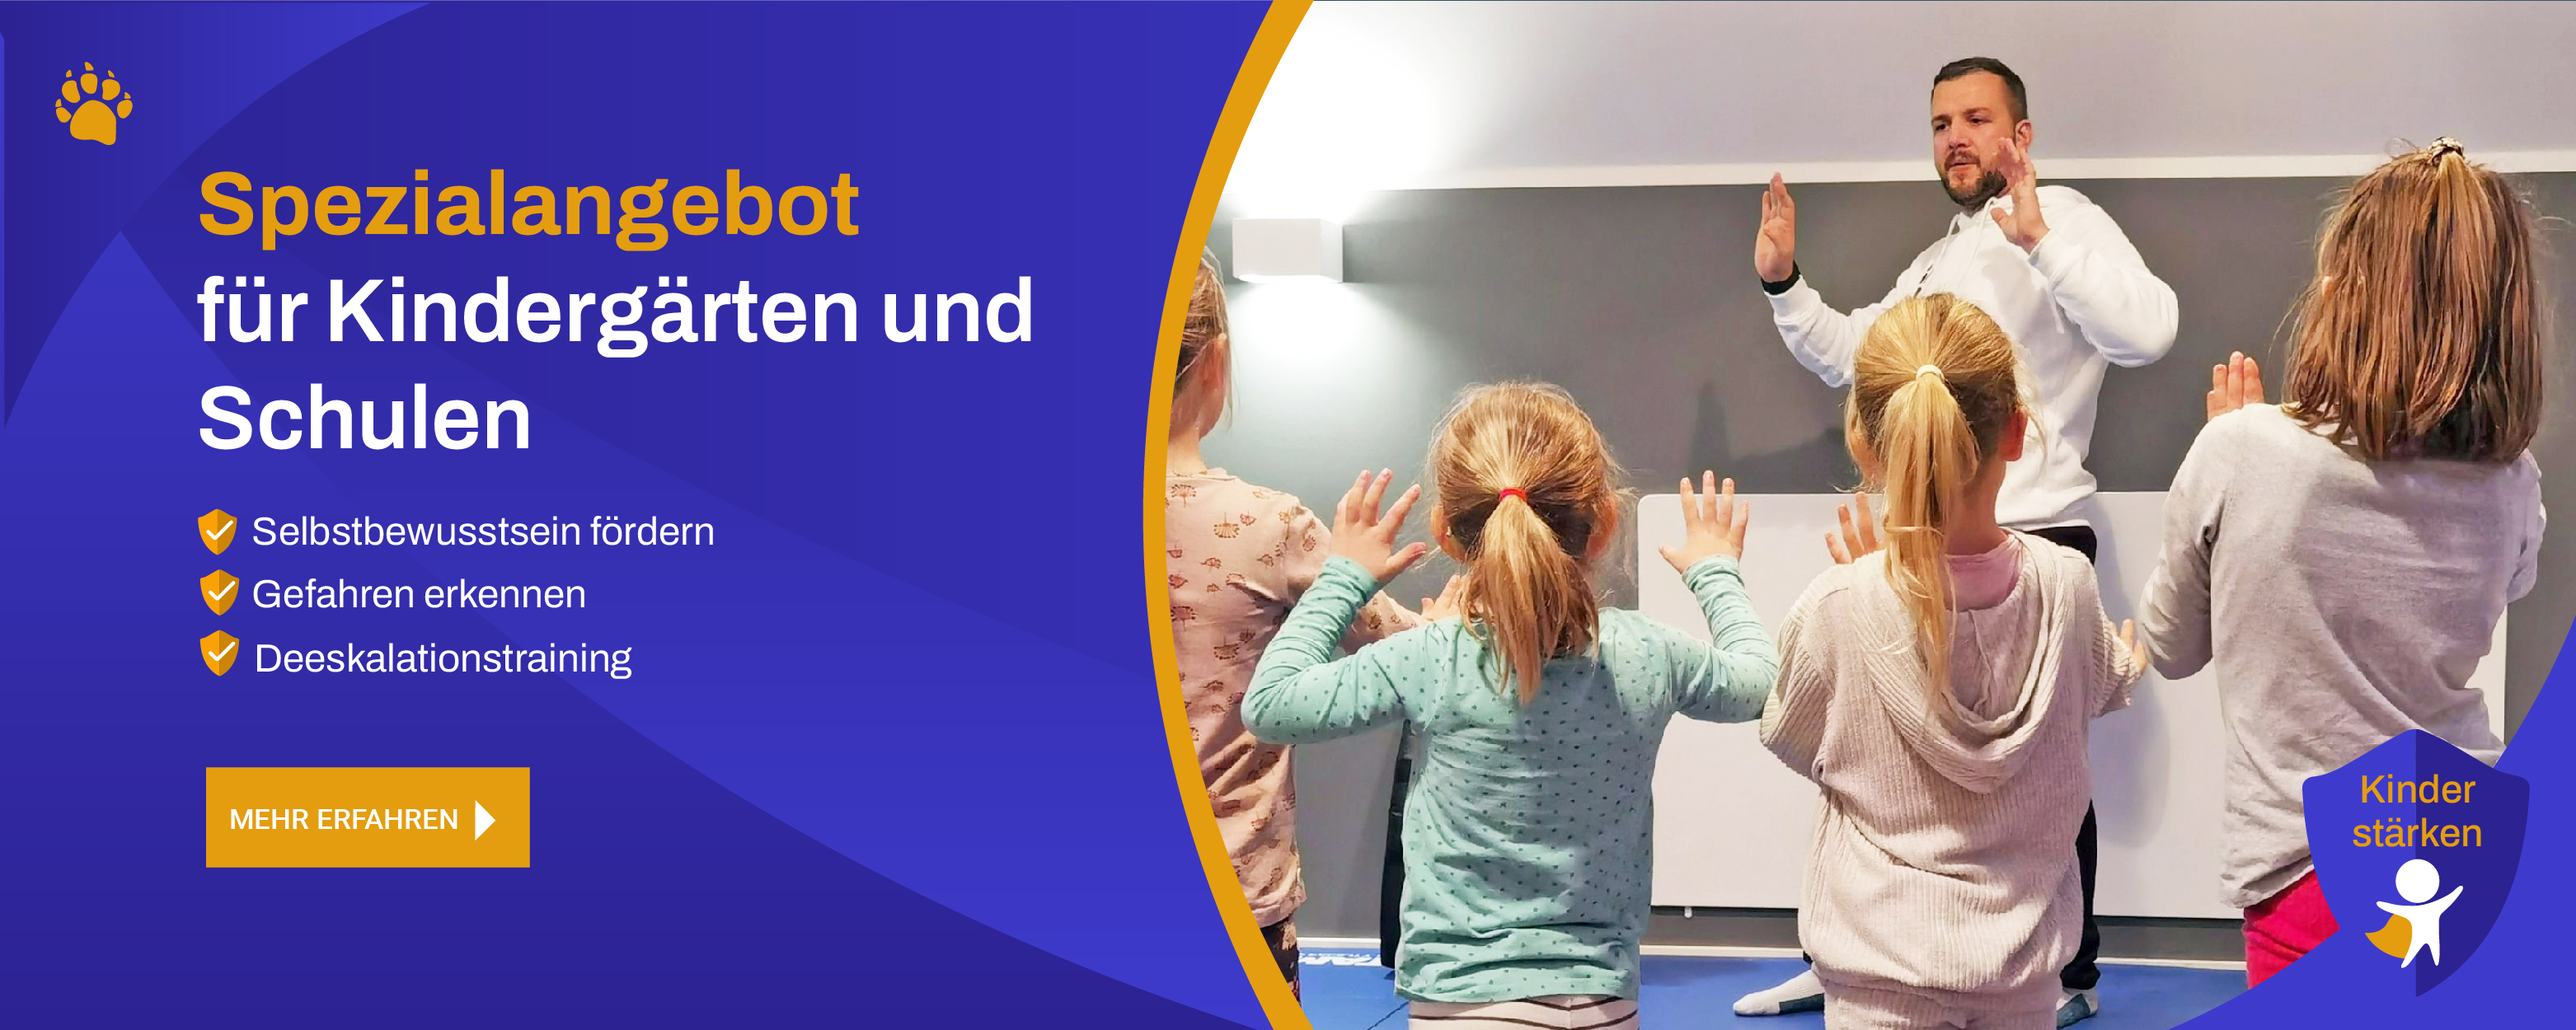
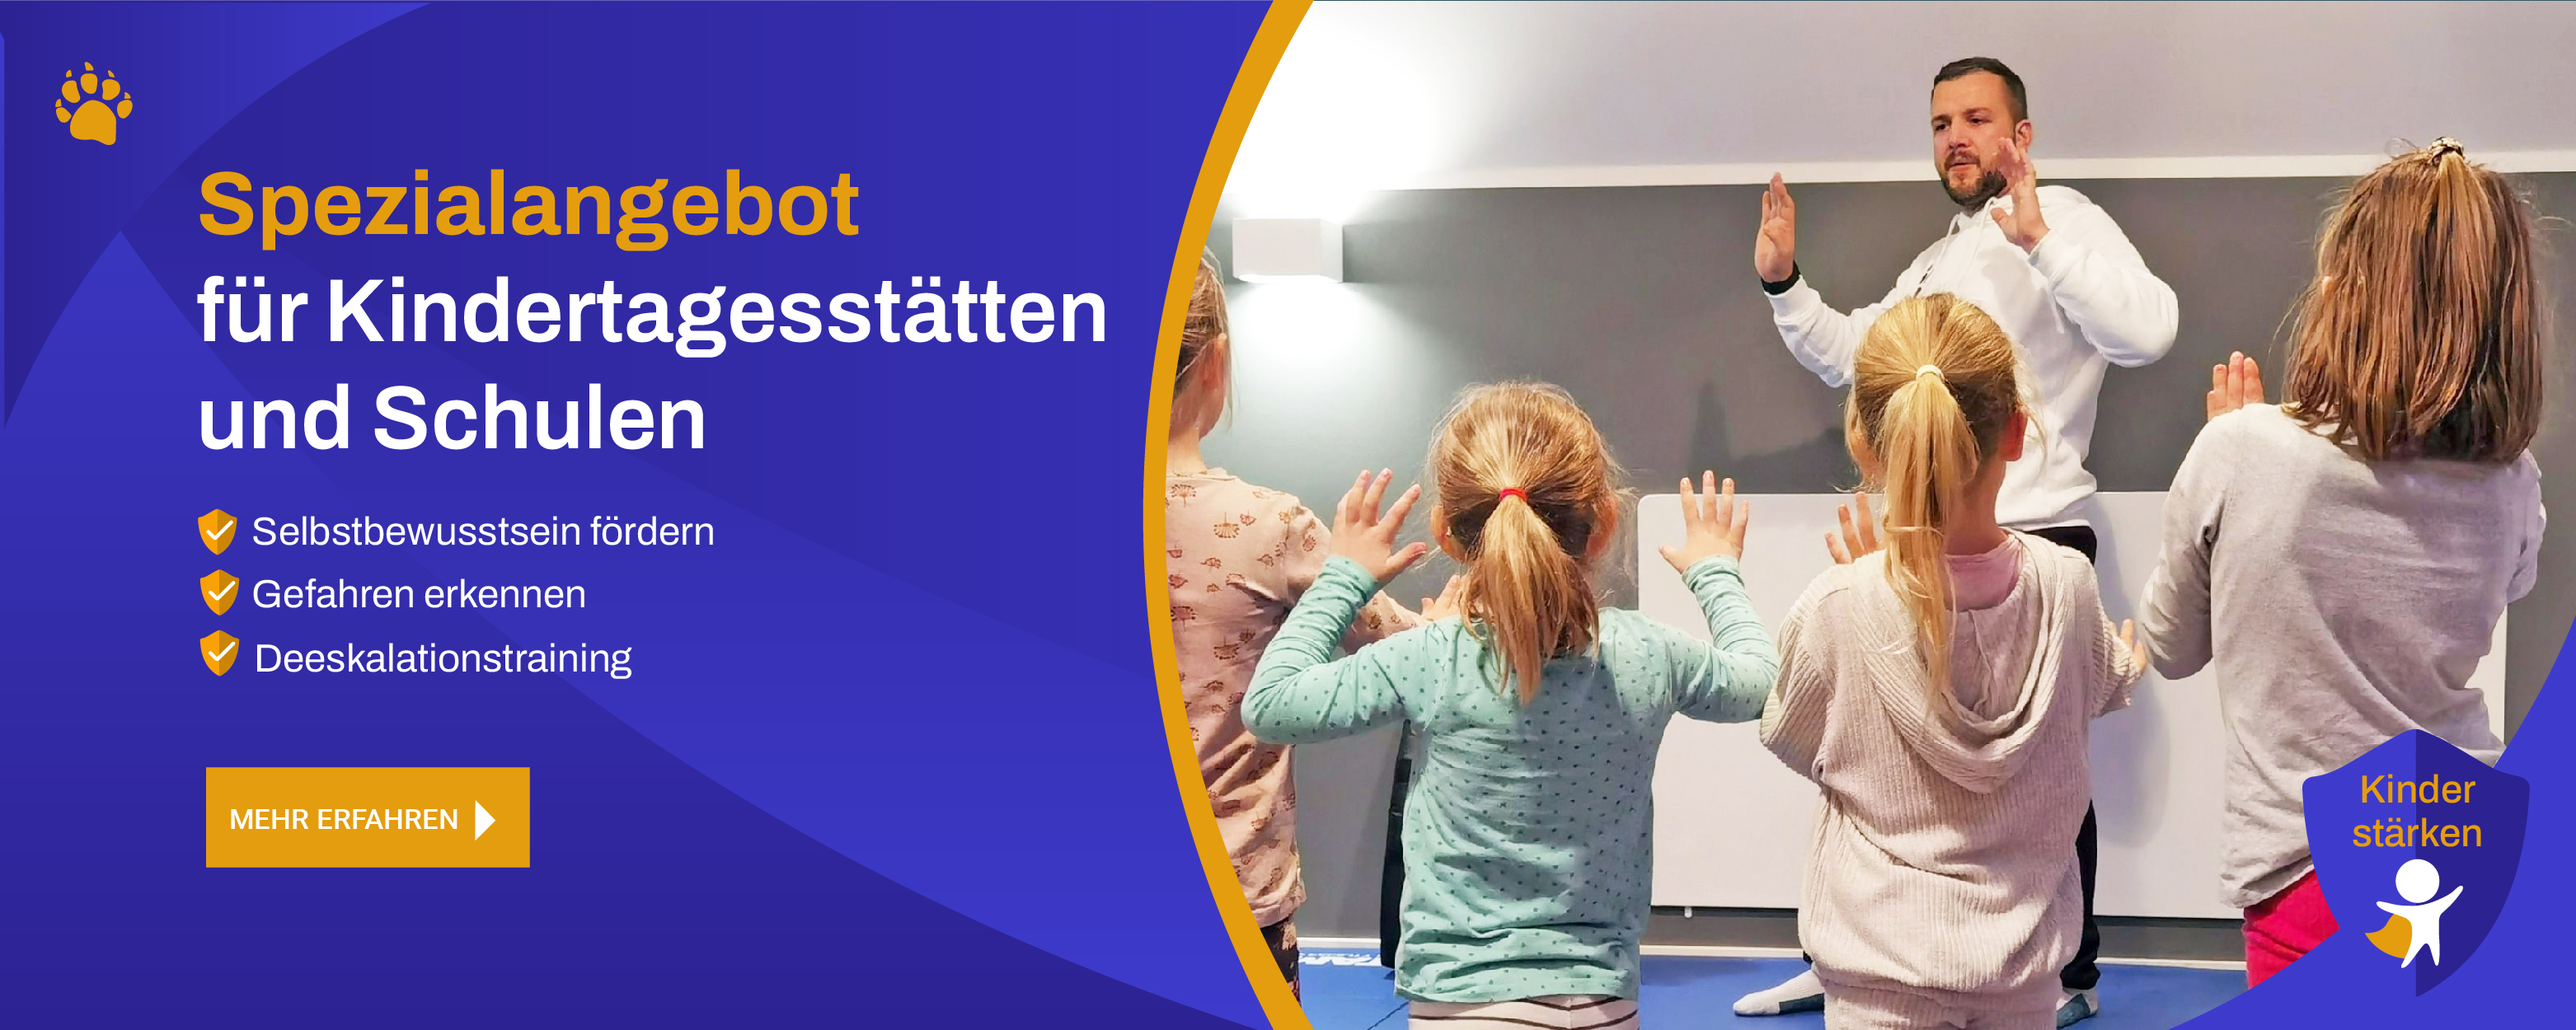
changes

Changed region(s): [[0.2173, 0.2496, 0.4346, 0.3432], [0.0621, 0.3744, 0.2794, 0.4368]]

diff --git a/components/BanerKidsAngebot/BanerKidsAngebot.tsx b/components/BanerKidsAngebot/BanerKidsAngebot.tsx
@@ -30,7 +30,7 @@ export default function BanerKidsAngebot({data}: Props) {
       {/* <Container> */}
        <div className={s.title}>
        <h3>
-          <span>Unser sonderangebot</span> für Kindergärten und schulen
+          <span>Unser sonderangebot</span> für KINDERTAGESSTÄTTEN und schulen
         </h3>
        </div>
       {/* </Container> */}
